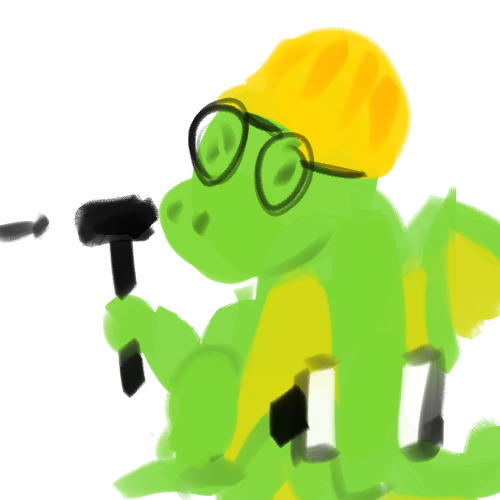
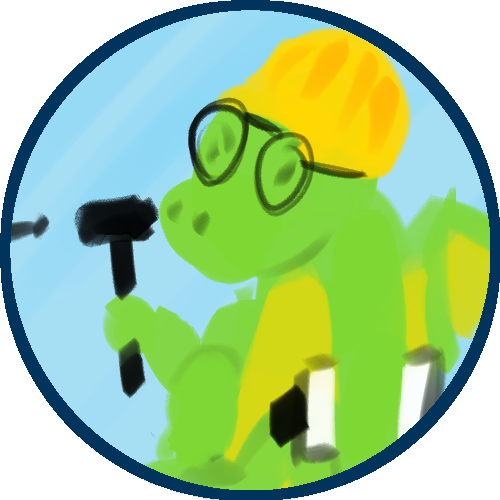
rawr

diff --git a/index.html b/index.html
@@ -24,29 +24,14 @@
 			<div class="bg_box"></div>
 			<div class="circle">
 				<a href="projects.html" class="projects">
-					<img src="Images/circleBG.png" alt="circleBG" class="circleBG">
-					<img src="Images/circleASM.png" alt="projects" class="circleItem">
+					<img src="Images/circleASM.png" alt="projects">
+					<img src="Images/circleASMcover.png" alt="projects" class="projectsCover">
 				</a>
-				<a href="boards.html" class="boards">
-					<img src="Images/circleBG.png" alt="circleBG" class="circleBG">
-					<img src="Images/circleLeaderboards.png" alt="boards" class="circleItem">
-				</a>
-				<a href="quotes.html" class="quotes">
-					<img src="Images/circleBG.png" alt="circleBG" class="circleBG">
-					<img src="Images/circleQuotes.png" alt="quotes" class="circleItem">
-				</a>
-				<a href="docs.html" class="docs">
-					<img src="Images/circleBG.png" alt="circleBG" class="circleBG">
-					<img src="Images/circleDocumentation.png" alt="docs" class="circleItem">
-				</a>
-				<a href="shop.html" class="shop">
-					<img src="Images/circleBG.png" alt="circleBG" class="circleBG">
-					<img src="Images/circleMerch.png" alt="shop" class="circleItem">
-				</a>
-				<a href="art.html" class="art">
-					<img src="Images/circleBG.png" alt="circleBG" class="circleBG">
-					<img src="Images/circleArt.png" alt="art" class="circleItem">
-				</a>
+				<a href="boards.html" class="boards"><img src="Images/circleLeaderboards.png" alt="boards"></a>
+				<a href="quotes.html" class="quotes"><img src="Images/circleQuotes.png" alt="quotes"></a>
+				<a href="docs.html" class="docs"><img src="Images/circleDocumentation.png" alt="docs"></a>
+				<a href="shop.html" class="shop"><img src="Images/circleMerch.png" alt="shop"></a>
+				<a href="art.html" class="art"><img src="Images/circleArt.png" alt="art"></a>
 			</div>
 			<div class="socials">
 				<a target="_blank" href="https://ko-fi.com/brakki" class="kofi"><img src="Images/KoFi.png" alt="kofi"></a>

diff --git a/CSS/style.css b/CSS/style.css
@@ -203,19 +203,6 @@ img, a {
     transition-duration: 0.25s;
 }
 
-.circleBG {
-    border-radius: 50%;
-    position: absolute;
-    left: 11px;
-    top: 11px;
-    z-index: -1;
-}
-
-.circleItem {
-    border-radius: 50%;
-    border: 10px solid rgb(0, 52, 92);
-}
-
 .quotes:hover, .art:hover, .projects:hover, .shop:hover, .docs:hover, .boards:hover {
     scale: 0.4;
     z-index: 5;
@@ -234,9 +221,6 @@ img, a {
     0% {
         transform: rotate(0deg);
     }
-    50% {
-        transform: rotate(180deg);
-    }
     100% {
         transform: rotate(360deg);
     }
@@ -245,7 +229,7 @@ img, a {
 .art {
     margin-top: -280px;
     margin-left: -150px;
-    animation: fadeInArt 0.5s;
+    /*animation: fadeInArt 0.5s;*/
 }
 
 @keyframes fadeInArt {
@@ -258,7 +242,14 @@ img, a {
 .projects {
     margin-top: -280px;
     margin-left: 150px;
-    animation: fadeInProjects 0.5s;
+    /*animation: fadeInProjects 0.5s;*/
+}
+
+.projectsCover {
+    filter: invert();
+    z-index: 2;
+    position: absolute;
+    left: 0px;
 }
 
 @keyframes fadeInProjects {
@@ -270,7 +261,7 @@ img, a {
 
 .shop {
     margin-left: -300px;
-    animation: fadeInShop 0.5s;
+    /*animation: fadeInShop 0.5s;*/
 }
 
 @keyframes fadeInShop {
@@ -282,7 +273,7 @@ img, a {
 
 .boards {
     margin-left: 300px;
-    animation: fadeInBoards 0.5s;
+    /*animation: fadeInBoards 0.5s;*/
 }
 
 @keyframes fadeInBoards {
@@ -292,10 +283,10 @@ img, a {
     }
 }
 
-.docs {
+.docs{
     margin-top: 280px;
     margin-left: -150px;
-    animation: fadeInDocs 0.5s;
+    /*animation: fadeInDocs 0.5s;*/
 }
 
 @keyframes fadeInDocs {
@@ -308,7 +299,7 @@ img, a {
 .quotes {
     margin-top: 280px;
     margin-left: 150px;
-    animation: fadeInQuotes 0.5s;
+    /*animation: fadeInQuotes 0.5s;*/
 }
 
 @keyframes fadeInQuotes {
